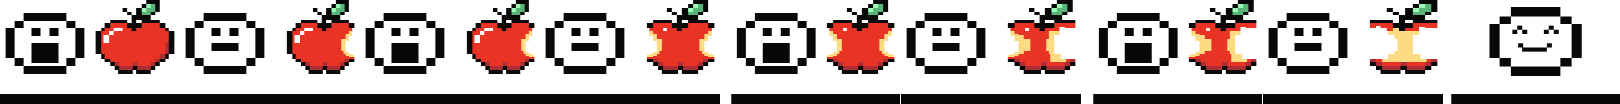
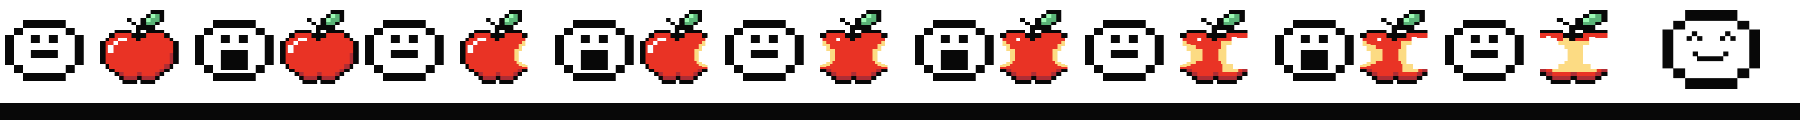
adds different renders on the page

diff --git a/client/src/containers/GameContainer.js b/client/src/containers/GameContainer.js
@@ -27,6 +27,12 @@ const  Game = ()=> {
   const [name, setName] = useState("")
   const [monsters, setMonsters] = useState ([])
 
+  const [feed, setFeed] = useState(false)
+  const [poop, setPoop] = useState(false)
+  const [idle, setIdle] = useState(true)
+  const [play, setPlay] = useState(false)
+  const [sick, setSick] = useState(false)
+
   useEffect(() => {
     if (internalTime <= 0) {
     endGame()
@@ -45,6 +51,7 @@ const  Game = ()=> {
 const startGame = (()=>{
     setPlaying (true)
     setFinished(false)
+    setInternalTime(gameTime)
 })
 
 const endGame = (()=>{
@@ -66,10 +73,33 @@ const deleteMonster = (id) => {
 
 const handleFeedClick = () => {
   setInternalTime((currentInternalTime) => currentInternalTime + 10000)
+  setIdle(false)
+  setFeed(true)
+}
+const handleIdleClick = () => {
+  setFeed(false)
+  setPoop(false)
+  setPlay(false)
+  setSick(false)
+  setIdle(true)  
 }
 
 const handlePlayClick = () => {
   setInternalTime((currentInternalTime) => currentInternalTime + 20000)
+  setIdle(false)
+  setPlay(true)
+}
+
+const handlePoopClick = () => {
+  setInternalTime((currentInternalTime) => currentInternalTime - 20000)
+  setIdle(false)
+  setPoop(true)
+}
+
+const handleSickClick = () => {
+  setInternalTime((currentInternalTime) => currentInternalTime - 10000)
+  setIdle(false)
+  setSick(true)
 }
 
 const changeInternalTime = () => {
@@ -92,16 +122,16 @@ const handleNameInput = (event) => {
         <h1 id="header">Start Game</h1> 
 
         <label  htmlFor='name-input'> Enter Your CB name here </label><br></br>
-        <input onChange={handleNameInput} name="name-input" type="text" value={name}></input>
+        <input onChange={handleNameInput} name="name-input" type="text" value={name} maxLength="3" className="input-name"></input>
         <br></br>
         <button id="start-button" onClick={startGame}> <img id="start-button-image" src={startButton} width="100"/> </button>
         <Egg id="canvas"></Egg>
       </>}
     
-    {playing && !finished &&
+    {playing && idle &&
       <>
         <h1 id="header">Playing Game</h1> 
-        <p> {name} </p>
+        <p className="input-name"> {name} </p>
         <button onClick={endGame} > End Game </button>
         <p> {`Time: ${internalTime / 1000}s`} </p>
         <Timer  
@@ -116,10 +146,99 @@ const handleNameInput = (event) => {
           />
         <br></br>
         <Idle id="canvas"></Idle>
+        <button onClick={handleIdleClick}>Idle</button>
         <button onClick={handleFeedClick}>Feed</button>
         <button onClick={handlePlayClick}>Play</button>
+        <button onClick={handlePoopClick}>💩</button>
+        <button onClick={handleSickClick}>🥴</button>
+        
       </>}
     
+      {playing && feed &&
+      <>
+        <h1 id="header">Playing Game</h1> 
+        <p className="input-name"> {name} </p>
+        <button onClick={endGame} > End Game </button>
+        <p> {`Time: ${internalTime / 1000}s`} </p>
+        <Timer  
+          timeRate={timeRate} 
+          changeInternalTime={changeInternalTime} 
+          />
+          <HealthBar internalTime={internalTime}/>
+        <Score 
+          tempFinalScore={tempFinalScore}   
+          onEnd={endGame} 
+          internalTime={internalTime}
+          />
+        <br></br>
+        <Eating id="canvas"></Eating>
+        <button onClick={handleIdleClick}>Idle</button>
+        <button onClick={handleFeedClick}>Feed</button>
+        
+      </>}
+
+      {playing && poop &&
+      <>
+        <h1 id="header">Playing Game</h1> 
+        <p className="input-name"> {name} </p>
+        <button onClick={endGame} > End Game </button>
+        <p> {`Time: ${internalTime / 1000}s`} </p>
+        <Timer  
+          timeRate={timeRate} 
+          changeInternalTime={changeInternalTime} 
+          />
+          <HealthBar internalTime={internalTime}/>
+        <Score 
+          tempFinalScore={tempFinalScore}   
+          onEnd={endGame} 
+          internalTime={internalTime}
+          />
+        <br></br>
+        <Poop id="canvas"></Poop>
+        <button onClick={handleIdleClick}>Idle</button>        
+      </>}
+
+      {playing && sick &&
+      <>
+        <h1 id="header">Playing Game</h1> 
+        <p className="input-name"> {name} </p>
+        <button onClick={endGame} > End Game </button>
+        <p> {`Time: ${internalTime / 1000}s`} </p>
+        <Timer  
+          timeRate={timeRate} 
+          changeInternalTime={changeInternalTime} 
+          />
+          <HealthBar internalTime={internalTime}/>
+        <Score 
+          tempFinalScore={tempFinalScore}   
+          onEnd={endGame} 
+          internalTime={internalTime}
+          />
+        <br></br>
+        <Sick id="canvas"></Sick>
+        <button onClick={handleIdleClick}>Idle</button>        
+      </>}
+
+      {playing && play &&
+      <>
+        <h1 id="header">Playing Game</h1> 
+        <p className="input-name"> {name} </p>
+        <button onClick={endGame} > End Game </button>
+        <p> {`Time: ${internalTime / 1000}s`} </p>
+        <Timer  
+          timeRate={timeRate} 
+          changeInternalTime={changeInternalTime} 
+          />
+          <HealthBar internalTime={internalTime}/>
+        <Score 
+          tempFinalScore={tempFinalScore}   
+          onEnd={endGame} 
+          internalTime={internalTime}
+          />
+        <br></br>
+        <Play id="canvas"></Play>
+        <button onClick={handleIdleClick}>Idle</button>        
+      </>}
 
       {!playing && finished &&
         
@@ -127,6 +246,7 @@ const handleNameInput = (event) => {
       
         <FinishPage monsters={monsters} finalScore={finalScore} name={name} addMonster={addMonster} deleteMonster={deleteMonster}></FinishPage> 
         <Grave id="canvas"></Grave>
+        <button id="start-button" onClick={startGame}> Play Again </button>
       </>}
       </div>
     </>

diff --git a/client/src/components/Monster.js b/client/src/components/Monster.js
@@ -66,7 +66,7 @@ export const Eating = props =>{
       // context.fillReact = (100,30,100,100)
     context.drawImage(eatingImage, frameX * spriteWidth, frameY * spriteHeight, spriteWidth, spriteHeight, 0, 0, spriteWidth,spriteHeight)
     if (gameFrame % staggerFramesEating == 0){
-        if (frameX < 8) frameX++ 
+        if (frameX < 9) frameX++ 
         else frameX = 0
     }
     gameFrame++

diff --git a/client/src/components/FinishPage.js b/client/src/components/FinishPage.js
@@ -14,7 +14,7 @@ const FinishPage = ({finalScore, name, deleteMonster, addMonster, monsters}) => 
         <>
 
             
-            <h1> {name} is dead </h1>
+            <h1 className="input-name"> {name} is dead </h1>
             <h3>Final Score : {finalScore} </h3>
             
             <button onClick={handleSaveButton} > Save score </button>

diff --git a/server/db/seeds.js b/server/db/seeds.js
@@ -3,15 +3,15 @@ db.dropDatabase();
 
 db.monsters.insertMany([
     {
-        name:"Shark",
+        name:"ASS",
         finalScore: 45
     },
     {
-        name:"Eddie",
+        name:"BUM",
         finalScore: 32
     },
     {
-        name:"Fifi",
+        name:"BUT",
         finalScore: 24
     }
 ]);

diff --git a/client/src/App.css b/client/src/App.css
@@ -4,6 +4,12 @@
     --pixel-size: 7;
 }
 
+.input-name {
+ text-transform: uppercase;
+ font-family: 'Press Start 2P', cursive;
+ width: 100px;
+}
+
 #all-game {
     font-family: 'Press Start 2P', cursive;
 }
